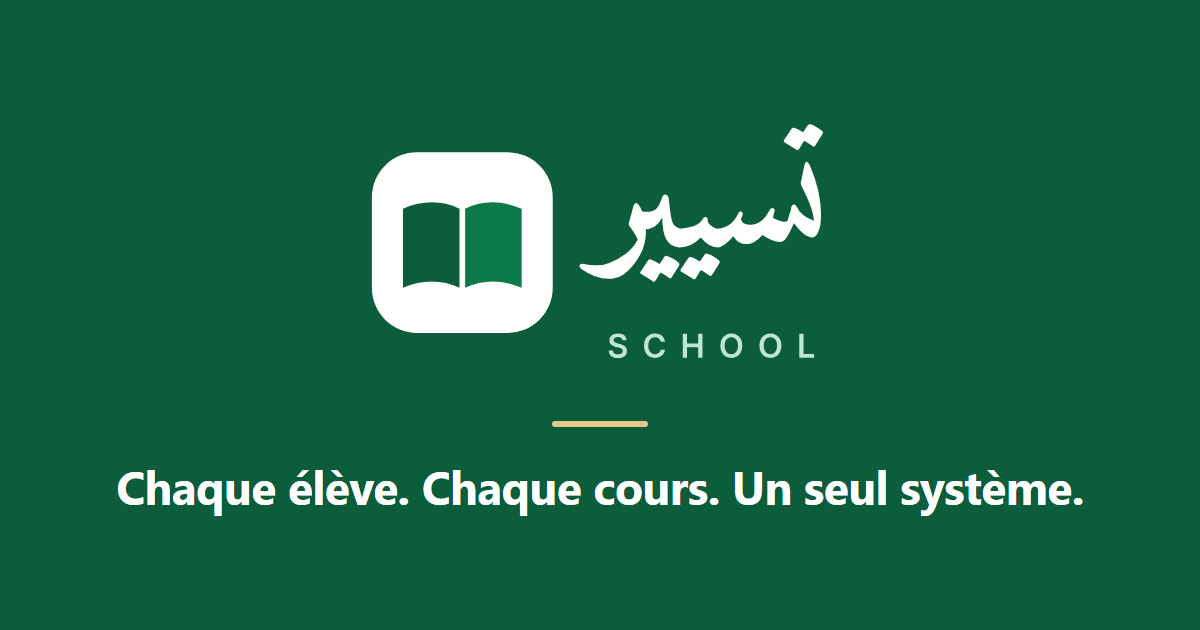
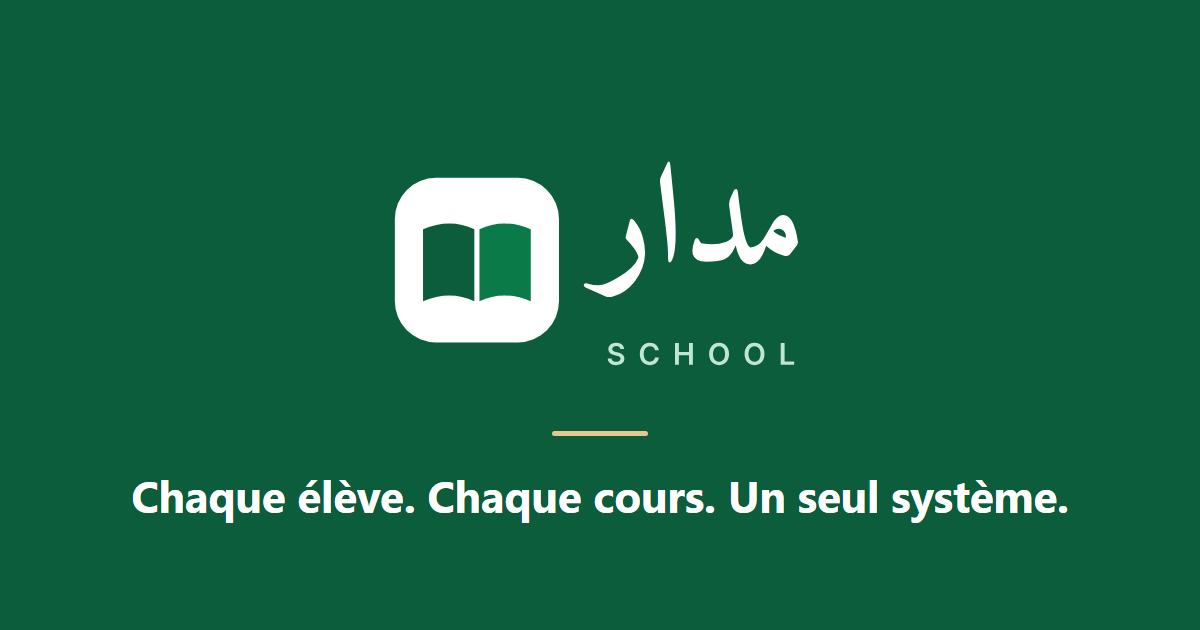
Rebrand: Tasyir → Madar School (interface only)
Every user-visible name now says Madar / Madar School / مدار: BRAND
constants (sidebar, titles, metadata, Open Graph), the three message files
(home page, pricing, FAQ, demo form, founding banner, WhatsApp messages,
privacy + terms with their placeholders and meaning unchanged, push and
notification texts, install card, suspended / trial pages), the PWA
manifest (name, short_name), the service worker (fallback push title;
offline cache bumped to v2 since the offline page text changed).
In Arabic, "تسيير" was also the common noun "management": those
sentences now say "إدارة"; no "تسيير" is left anywhere visible.

Logo: the new lockups madar-logo.svg / madar-logo-dark.svg replace the
old tasyir-logo* files (removed); the square book icon, favicon, PWA,
maskable and apple-touch icons are unchanged. New Open Graph image
(same style, new name).

Internal names stay on purpose: repo / package, database, cron jobs,
storage keys (tasyiir:rollcall / tasyiir:grades / tasyir:install-card),
@phone.tasyiir.invalid, the tasyir-icon* file names, the Vercel URL.
Demo emails (@demo.tasyir.ma) and the demo school's name are untouched
(seed + database): follow-ups in CLAUDE.md and docs/PLAN.md, with the
madarapp.ma domain, OMPIC, Instagram and the custom-SMTP note.

Also records Phase 11 step 4 as live on production (status).

Checks: lint, typecheck, build; actions-demo-requests 42 / 42,
pages-phone-app 11 / 11; headless Chrome home, login, privacy, terms,
[…]

diff --git a/src/lib/brand.ts b/src/lib/brand.ts
@@ -1,8 +1,8 @@
 /** Brand names: proper nouns, identical in every locale (docs/DESIGN.md). */
 export const BRAND = {
-  name: "Tasyir",
-  nameAr: "تسيير",
-  product: "Tasyir School",
+  name: "Madar",
+  nameAr: "مدار",
+  product: "Madar School",
 } as const;
 
 /** Public address of the site (link previews need absolute URLs). */
@@ -15,13 +15,16 @@ export const OG_IMAGE = {
   url: "/brand/og-image.png",
   width: 1200,
   height: 630,
-  alt: "Tasyir School — Chaque élève. Chaque cours. Un seul système.",
+  alt: "Madar School — Chaque élève. Chaque cours. Un seul système.",
 } as const;
 
-/** Logo files in public/brand (Amiri lettering is drawn as shapes inside the SVGs). */
+/**
+ * Logo files in public/brand (Amiri lettering is drawn as shapes inside the SVGs).
+ * The square book icon kept its old file names (tasyir-icon*): only the wordmark changed.
+ */
 export const BRAND_ASSETS = {
-  logo: "/brand/tasyir-logo.svg",
-  logoDark: "/brand/tasyir-logo-dark.svg",
+  logo: "/brand/madar-logo.svg",
+  logoDark: "/brand/madar-logo-dark.svg",
   icon: "/brand/tasyir-icon.svg",
 } as const;
 

diff --git a/public/sw.js b/public/sw.js
@@ -1,10 +1,11 @@
-// Tasyir service worker (Phase 10). Keeps NO school data: only the "no connection"
+// Madar service worker (Phase 10; internal names keep "tasyir"). Keeps NO school data: only the "no connection"
 // page of each language and the files it needs, so a parent who opens the app
 // without network sees a clear message instead of the browser's error.
 // Web push (Phase 10 step 4): the server sends the sentence already written in the
 // parent's language; a tap opens (or focuses) the page it is about.
 
-const CACHE = "tasyir-offline-v1";
+// v2: the offline page now says "Madar" (rebrand 2026-10-25). The prefix stays: old caches are found by it.
+const CACHE = "tasyir-offline-v2";
 const OFFLINE_PAGES = ["/ar/offline", "/fr/offline", "/en/offline"];
 const ASSET = /\/_next\/static\/[^"'\s)]+\.(?:css|woff2)/g;
 
@@ -66,7 +67,7 @@ self.addEventListener("push", (event) => {
   } catch {
     message = {};
   }
-  const title = message.title || "Tasyir";
+  const title = message.title || "Madar";
   event.waitUntil(
     self.registration.showNotification(title, {
       body: message.body || "",

diff --git a/src/components/features/landing/landing-ui.tsx b/src/components/features/landing/landing-ui.tsx
@@ -33,14 +33,14 @@ export const BUTTON = {
   link: cn("rounded-sm font-semibold text-lp-brand underline-offset-4 hover:underline focus-visible:outline-lp-brand", FOCUS),
 } as const;
 
-/** Full Tasyir logo; `onDark` = the white-lettered version for the green bands. */
+/** Full Madar logo; `onDark` = the white-lettered version for the green bands. */
 export function Logo({ className, onDark = false }: { className?: string; onDark?: boolean }) {
   return (
     // eslint-disable-next-line @next/next/no-img-element -- static SVG, nothing to optimize
     <img
       src={onDark ? BRAND_ASSETS.logoDark : BRAND_ASSETS.logo}
       alt={BRAND.product}
-      width={635}
+      width={630}
       height={365}
       className={cn("h-12 w-auto", className)}
     />

diff --git a/src/app/[locale]/(auth)/layout.tsx b/src/app/[locale]/(auth)/layout.tsx
@@ -13,7 +13,7 @@ export default function AuthLayout({ children }: LayoutProps<"/[locale]">) {
         {/* Logo files are fixed light art: the light one stays on a white tile in dark mode. */}
         <div className="rounded-2xl px-4 py-1 dark:bg-white">
           {/* eslint-disable-next-line @next/next/no-img-element -- static SVG */}
-          <img src={BRAND_ASSETS.logo} alt={BRAND.product} width={635} height={365} className="h-24 w-auto" />
+          <img src={BRAND_ASSETS.logo} alt={BRAND.product} width={630} height={365} className="h-24 w-auto" />
         </div>
         {children}
       </div>

diff --git a/src/components/features/app/install-app-card.tsx b/src/components/features/app/install-app-card.tsx
@@ -12,7 +12,7 @@ import { dismissInstall, installState, promptInstall, subscribeInstall, type Ins
 const serverState = (): InstallState => "none";
 
 /**
- * Parent home: "install Tasyir on your phone". Android / Chrome → the browser's own
+ * Parent home: "install Madar on your phone". Android / Chrome → the browser's own
  * install dialog; iPhone → the three Safari steps (Apple has no install button).
  * Nothing once installed, on a computer without the prompt, or for 30 days after "Plus tard".
  */

diff --git a/src/components/layout/school-brand.tsx b/src/components/layout/school-brand.tsx
@@ -6,7 +6,7 @@ import { getCurrentSchool, getCurrentUser } from "@/lib/auth/session";
 import { BRAND, BRAND_ASSETS } from "@/lib/brand";
 
 /**
- * School logo + name (white-label), or the Tasyir brand for the platform
+ * School logo + name (white-label), or the Madar brand for the platform
  * owner. Links to the signed-in user's home (portal, dashboard, platform).
  */
 export async function SchoolBrand() {

diff --git a/src/app/globals.css b/src/app/globals.css
@@ -84,7 +84,7 @@
   --card-foreground: #0e2018;
   --popover: #ffffff;
   --popover-foreground: #0e2018;
-  /* Tasyir palette: atlas = brand / headers, action = buttons / links,
+  /* Madar palette (same colours as the Tasyir brand): atlas = brand / headers, action = buttons / links,
      mint = soft fills, sand = decoration only (never text). */
   --brand: #0b5d3b;
   --brand-foreground: #ffffff;

diff --git a/src/lib/landing/whatsapp.ts b/src/lib/landing/whatsapp.ts
@@ -1,5 +1,5 @@
 /**
- * Tasyir's WhatsApp contact (wa.me link) for the public home page.
+ * Madar's WhatsApp contact (wa.me link) for the public home page.
  * NEXT_PUBLIC_WHATSAPP_NUMBER = international digits only, e.g. 2126XXXXXXXX.
  * Not set → no WhatsApp buttons are shown.
  */

diff --git a/CLAUDE.md b/CLAUDE.md
@@ -1,14 +1,16 @@
-# Tasyiir School — Claude Code rules
+# Madar School — Claude Code rules
 
-Tasyiir School (تسيير) is a **multi-tenant SaaS school management platform** for Moroccan private schools:
+Madar School (مدار), formerly Tasyir, is a **multi-tenant SaaS school management platform** for Moroccan private schools:
 absences, emploi du temps, communication, grades, fees, transport, Massar exports, automatic alerts.
+
+**Product renamed to Madar School (interface only, 2026-10-25).** Every user-visible name says Madar / Madar School / مدار (`BRAND` in `src/lib/brand.ts`, messages, manifest, service worker texts, logo `public/brand/madar-logo.svg` + `madar-logo-dark.svg`). **Internal names stay `tasyiir` / `tasyir` on purpose:** repo and package `tasyiir-school`, Supabase project names, pg_cron jobs `tasyiir-*`, parent sign-in domain `@phone.tasyiir.invalid`, localStorage keys (`tasyiir:rollcall:v1:`, `tasyiir:grades:v1:`, `tasyir:install-card:…`), service-worker cache prefix `tasyir-offline-`, push test tag `tasyir-test`, the square icon files `tasyir-icon*` (the book icon did not change), test file names, the Vercel URL `tasyiir-school.vercel.app`. In Arabic, "تسيير" was also used as the common noun "management": those sentences now say "إدارة". **Follow-ups (Madar):** demo emails `@demo.tasyir.ma` → the new domain through the seed `--refresh` (user present) and the demo school's name "École Démo Tasyir" (lives in `scripts/prod/seed-demo-school.mjs` + the database); own `madarapp.ma` + Vercel domain setup (not confirmed yet: no domain anywhere in the app); OMPIC filing for "Madar"; Instagram profile; custom SMTP only after owning the new domain (see the demo note below).
 
 - Full plan & phases: `docs/PLAN.md`
 - Brand, UI & UX rules: `docs/DESIGN.md`
 - **Always read both before starting a phase.** Work on ONE phase at a time. Don't build ahead.
 
 ## Current phase
-> **Phase 11 — Grades + report cards, in progress (started 2026-10-25).** Step 1 (grading setup in the DB) done: DEV + production (pushed by the user 2026-10-25), main `c294f6c` deployed. Steps 2 (setup screens) and 3 (grades table) live: migrations `phase11_copy_grading` + `phase11_grades` pushed to production by the user 2026-10-25, main `1839c0e` deployed. Coefficient grid rework live (migration `phase11_save_coefficients` pushed by the user 2026-10-25, main `481fca8` deployed). Step 4 (entry grid) done on DEV (migration `phase11_save_grades`, production push pending, commit not pushed). Next: step 5 (averages + rank). Plan, defaults and open questions in `docs/PLAN.md` § 7. Update this line when a phase is finished. Phases 0–10 + Launch prep done — live at https://tasyiir-school.vercel.app
+> **Phase 11 — Grades + report cards, in progress (started 2026-10-25).** Step 1 (grading setup in the DB) done: DEV + production (pushed by the user 2026-10-25), main `c294f6c` deployed. Steps 2 (setup screens) and 3 (grades table) live: migrations `phase11_copy_grading` + `phase11_grades` pushed to production by the user 2026-10-25, main `1839c0e` deployed. Coefficient grid rework live (migration `phase11_save_coefficients` pushed by the user 2026-10-25, main `481fca8` deployed). Step 4 (entry grid) live (migration `phase11_save_grades` pushed by the user 2026-10-25, main `0ca358a` deployed). Next: step 5 (averages + rank). Plan, defaults and open questions in `docs/PLAN.md` § 7. Update this line when a phase is finished. Phases 0–10 + Launch prep done — live at https://tasyiir-school.vercel.app
 > **Where we are (2026-10-25):** Launch prep step 6 (closing pass) done on main `2dac374`: lint + build clean, full `test:actions` 2337 / 2337 passed, 14 skipped (11 Sunday teacher cases, daily-alerts month edge, announcements no-year branch, demo `updateUser({ email })` when Auth answers `email_address_invalid` first), 0 failures; public pages (home, privacy, terms, offline, login × ar / fr / en × 390 / 1366) in headless Chrome: 200, no overflow, no console errors, RTL in Arabic. The user checked production by hand: the 3 demo logins + platform owner login work, a demo password change is refused. Live trial test (request → "Créer l'essai") deliberately NOT run on production. Phase 10 checked on Android + iPhone by the user 2026-10-24.
 > **Before the first real school (open):** Supabase Pro (daily backups) + add "sauvegardes quotidiennes" back to the home page · Vercel Pro (Hobby is non-commercial; before the first payment) · CNDP declaration under law 09-08 (hosting in Ireland; add the receipt number to /privacy) · lawyer review of /privacy + /terms · OMPIC registration (+ RC / ICE / address on the legal pages if wanted) · Vercel Preview env = DEV keys (never production) · own `tasyir.ma` before custom SMTP. Note: the teacher's /dashboard is still the empty placeholder card.
 
@@ -17,7 +19,7 @@ Same workflow (show every migration, wait for OK, commit each step; **no git pus
 - **Step 1 — grading setup in the DB (migration `phase11_grading_setup`, DEV `20261025015158`, applied through the MCP 2026-10-25; production pushed by the user the same day):** permissions `grades.view` (director, surveillant) + `grades.manage` (director), module `grades`. Everything per academic year. `grading_periods` (number 1–4, dates inside the year, no overlap = exclusion `grading_periods_no_overlap` 23P01, `weight` for the annual average, `locked_at` / `locked_by` set by the trigger; locked = number / dates / weight frozen (`grading_period_locked`), not deletable through the API (policy); unlock = `locked_at` null). Seeded by a trigger on `academic_years` insert (S1 start → 31 Jan, S2 1 Feb → end; midpoint when no 1 Feb) and for every existing year; moving a year's start / end moves the first period's start / last period's end (when on the old boundary), else the year update fails → `setup.errors.yearCutsSemesters` (`year-actions.ts`). `grade_level_settings` (pk year + level: scale 10 | 20, `controls_count` 1–10, `activities`); NO ROW = defaults, read them through `public.grade_level_rules(year)` (INVOKER: primaire /10 else /20, 4, false, `customised`). `subject_coefficients` (year + level + optional track + subject, `unique nulls not distinct`; coefficient 0 < c ≤ 20, optional `controls_count` override, `position` 0–100 = report card order); a filière's row wins over the level's common row, subject by subject. Read: every active account of the school while grades is on; write: grades.manage (column grants: school / year / level never change). `reset_demo_school` + the 3 tables (the demo year re-seeds its semesters: `grading_periods` is in `FILLED` of `phase-launch-demo.mjs`, OpenAPI count ≥ 35). Tests: `phase11-grading-setup.mjs` (81, in `run.mjs`).
 - **Step 2 — setup screens (done 2026-10-25, live).** Decisions (user): tab "Notes" in `/setup` (`/setup/grading`, hidden when the grades module is off; `grades.manage` edits, `grades.view` = surveillant reads only), sections Semestres / Règles par niveau / Coefficients per year, + "Copier vers d'autres niveaux" and "Copier depuis l'année précédente" (preview then confirm). Migration `phase11_copy_grading` (DEV `20261025023402`, applied through the MCP 2026-10-25; production pushed by the user 2026-10-25): `public.copy_level_coefficients(year, from_level, from_track, to_levels[], apply)` (one level's common rows or one filière → other levels' COMMON rows, same year) and `public.copy_grading_from_year(from_year, to_year, apply)` (earlier year's level rules + every coefficient row; semesters not copied). Both INVOKER, `has_module('grades')` + `grades.manage` else 42501 `copy_grading_forbidden`; year not in the school → 23503 `copy_grading_not_found`; source not earlier → 23514 `copy_grading_source_not_earlier`; never overwrite (status `exists` / `copy`), apply false = report only, apply true = same statement. Tests: `phase11-copy-grading.mjs` (32, in `run.mjs`). Screens: `/setup/grading?year=&section=periods|rules|coefficients&level=&track=` (page `src/app/[locale]/(school)/setup/grading/page.tsx`, `requireSchoolPermission("grades.view")`; module off → "not in your plan"; no year / levels / subjects → empty states with a link for structure.manage). Tabs: `SETUP_TABS` moved to `src/lib/structure/setup-tabs.ts` (a constant in the "use client" nav reached the server as a client reference and broke every /setup page in the browser while HTTP tests still saw 200), `SetupTabs` = server wrapper choosing the visible tabs (structure tabs: structure.manage; Notes: grades.view + module), `SetupTabsNav` hides itself with < 2 tabs. Nav: `NavItem.hiddenWith` (a "Notes" item → /setup/grading for grades.view WITHOUT structure.manage = surveillant). Components `src/components/features/grading/`: `PeriodsList` (cards `data-period` / `data-locked`, `PeriodDialog` dates + weight, lock / unlock confirm), `LevelRulesList` (rows `data-level-rules`, scale /10 /20, contrôles, activités, Personnalisé + Rétablir = delete the row), `CoefficientScopePicker` + `CoefficientsList` / `CoefficientRow` (`data-coefficient` / `data-graded`; inputs `id="coef-<subject>"` / `ctrl-` only with grades.manage; graded rows in report card order with ↑ ↓, then "Autres matières" (Ajouter, or in a filière "Personnaliser" over the inherited common values); filière row removed = back to the common core), `CopyLevelsDialog`, `CopyYearDialog` (pick → preview `data-copy-preview` → copy). Actions (`src/lib/grading/period-actions.ts`, `rules-actions.ts`, `coefficient-actions.ts`, `copy-actions.ts`; session + RLS; update-then-insert since key columns are not updatable; audit `grading.period.update|lock|unlock`, `grading.rules.save|reset`, `grading.coefficient.save|delete|reorder`, `grading.copy.levels|year`), zod `src/lib/validations/grading.ts` ("1,5" accepted, 2 decimals max), reads `src/lib/grading/setup.ts`, texts `grading.*` + `nav.grading` + `setup.tabs.grading` (2406 keys in each language). Tests: `actions-grading-setup.mjs` (75, in `run.mjs`). **Coefficients UX rework (user, 2026-10-25):** the per-level list, the level / filière picker and "Copier vers d'autres niveaux" are gone (the `copy_level_coefficients` function stays in the DB, unused). Now a grid per cycle (`?cycle=`, pill links of the cycles that have levels): rows = subjects, columns = the cycle's levels + one column per filière only for a level that has some (`CoefficientGrid`, `grid-model.ts` pure helpers, `GridCell` `data-cell="<level>|<track>|<subject>"` / `data-changed`, `GridSubjectCell` sticky first column `data-subject`: ↑ ↓ report card order for the whole cycle, "Même valeur pour tous les niveaux" popover = every common column of the row; filières keep inheriting). Views Coefficients / Contrôles (contrôles cell disabled where the subject is not graded; placeholder = inherited value or the level's number, greyed). Edits stay in the page; sticky save bar "N modifications non enregistrées" (+ invalid count, red cells), Annuler / Enregistrer; leaving with unsaved cells → browser warning. Save = `saveCoefficientGrid(year, cells)` (`coefficient-actions.ts`, the only coefficient action now; zod `gridCellSchema`, `cell` names the first invalid cell, audit `grading.coefficients.save`) → migration `phase11_save_coefficients` (DEV `20261025040150`, applied through the MCP 2026-10-25; production pushed by the user 2026-10-25): `public.save_subject_coefficients(year, cells jsonb)` INVOKER, `has_module('grades')` + `grades.manage` else 42501 `coefficients_forbidden`, year not in the school → `coefficients_year_not_found`, > 500 cells → `coefficients_too_many`; per cell: coefficient null = delete the row, else insert … on conflict (`subject_coefficients_key`) do update coefficient / controls_count / position (only granted columns); one function = one transaction, any CHECK / FK error rolls everything back. Shell: `SidebarInset className="min-w-0"` (`app-shell.tsx`) so a wide table scrolls inside its card instead of widening the page (found with the lycée grid: 185 px page overflow at 1366). Tests: `phase11-save-coefficients.mjs` (23, DB), `actions-grading-setup.mjs` now 62 (grid action + page instead of the old coefficient / copy-to-levels actions). Headless Chrome (École Test B director + surveillant, year 2090-2091 removed after; fr + ar × 1366 + 390 × primaire / collège / lycée; edits: a cell "2,5", same value in every college level, contrôles view, disabled contrôles cell, invalid 25 blocks the save, ↑ reorder, one save checked in the DB, reload shows the values): 45 / 45 ok, no page overflow, no raw keys, no console errors, RTL in Arabic. Headless Chrome (École Test B director + surveillant, throwaway year 2090-2091 removed after, fr + ar × 1366 + 390, every section + filière, lock / copy-year / copy-levels dialogs, add a subject through the UI): no overflow, no raw keys, no console errors, RTL in Arabic.
 - **Step 3 — grades in the DB (migration `phase11_grades`, DEV `20261025034208`, applied through the MCP 2026-10-25; production pushed by the user 2026-10-25):** `grades` = one mark: period + student + subject + kind `control` (number 1..N) | `activities` (number 1) + `score` numeric(4,2) or `absent` (no score). Caller inserts school / period / student / subject / kind / number / score / absent (column grants); the BEFORE trigger (`private.grades_before_write`, DEFINER) sets the year from the period + entered_by / at (insert) or updated_by / at, and refuses: `grading_period_locked`, `grade_student_not_enrolled` (no enrolment that year), `grade_subject_not_graded` (no coefficient row for the student's level: filière row wins, else common), `grade_no_activities`, `grade_number_too_high` (subject override, else the level's count), `grade_score_above_scale`, `grade_identity_locked` (only score / absent change). Rules are checked on write only (lowering a count later keeps old grades; they can be deleted, not changed). **Locked semester = insert / update / delete refused for everyone, secret key included**; only a delete cascading from another (student, year: `pg_trigger_depth() > 1`) goes through. NO ACTION FKs: a semester or a subject with grades cannot be deleted (23503 `grades_period_fkey` / `grades_subject_fkey`). No class stored: the class / level come from the enrolment of the period's year. Write: `grades.manage` any year; a teacher only the CURRENT year and a subject they teach to the student's class (`private.teaches_student_subject(student, subject, year)`, lessons). Read (user 2026-10-25): grades.view / grades.manage (director, surveillant) all, a teacher only those pairs; **parents and students NO read access to `grades` ever** (they will read published snapshots, step 7). Module grades on everywhere. `reset_demo_school` unlocks the demo semesters then deletes grades (`phase-launch-demo.mjs` table count ≥ 36). Tests: `phase11-grades.mjs` (72, in `run.mjs`; incl. the student's parent reads none of the child's grades).
-- **Step 4 — grade entry (migration `phase11_save_grades`, DEV `20261025043831`, applied through the MCP 2026-10-25; **production push by the user pending — no git push before**):** `public.save_grades(period, subject, cells jsonb)` INVOKER: per cell `{student_id, kind, number, score, absent, clear}` → clear = delete, else insert … on conflict (`grades_key`) do update score / absent; RLS + the grades trigger decide everything, one refusal rolls the whole sheet back; ≤ 2000 cells; `grades_forbidden` (no school / module off), `grades_period_not_found` (not the caller's school), `grades_too_many`. Decisions (user 2026-10-25): surveillant read-only on /grades; grades.manage gets a year picker (current year by default), teachers stay on the current year; menu "Saisie des notes" (`nav.gradeEntry`, `/grades`: role teacher OR grades.view, module grades) and the surveillant's setup entry renamed "Réglages des notes" (`nav.grading`); phones one contrôle at a time, the full grid from md. Page `src/app/[locale]/(school)/grades/page.tsx` → `GradesContent` (`src/components/features/grades/`): `getGradeAccess()` (`src/lib/grades/access.ts`: manage / view / teacher, module off → "not in your plan", else home); teacher = `TeacherPairPicker` over `listTeacherPairs()` (their lessons of the current year; a class / subject not theirs in the URL falls back to their first pair); staff = `StaffSheetPickers` (year, class, graded subjects `listClassSubjects()`); `PeriodSwitch` (semester containing the school's today by default, 🔒 on locked ones); `getGradeSheet()` (`src/lib/grades/sheet.ts`: scale + contrôle count with the same rules as the trigger, activités column, read-only "(ancien)" columns for marks beyond a lowered count, students "NOM Prénom"). `GradeSheet` (client): cells are typed text (`src/lib/grades/marks.ts`: "" / "abs" (also "a", "غ") / 0..scale with 2 decimals, "," or "."), `PhoneSheet` (chips `data-chip` with filled counts, big rows, `MarkInput` `inputMode=decimal` `enterKeyHint=next`, Enter / Suivant = next student, Abs toggle `aria-pressed`) and `GridSheet` (sticky names, Enter = same contrôle next student) both rendered (CSS md:hidden / hidden md:block) on one state; inputs `data-mark="<student>|<kind>|<number>"` `data-mark-view`, read-only cells `data-mark-text`; invalid = red + save blocked; sticky bar `data-grade-savebar` (pending count, invalid count, "Réessayer" after a failure); leaving with unsaved marks → browser warning. Drafts `src/lib/grades/drafts.ts` (`tasyiir:grades:v1:<user>:<period>:<class>:<subject>`, written on every change, deleted once saved, other accounts' copies purged on open, ALL cleared on logout with the roll-call ones: `logout-button.tsx`, `user-menu.tsx`); a copy found on open comes back with `data-draft-restored` (+ Abandonner); on a locked semester it is only flagged (`data-draft-locked`) and can be discarded; read-only users ignore it. The restore after hydration needs an `eslint-disable-next-line react-hooks/set-state-in-effect` (the roll call does the same thing; the compiler skips that file). Action `saveGrades(class, subject, period, cells)` (`src/lib/grades/actions.ts`: area school + access manage / teacher, zod `src/lib/validations/grades.ts`, errors `grades.errors`, audit `grades.save`). Texts `grades.*`. Tests: `phase11-save-grades.mjs` (32, DB), `actions-grades.mjs` (35, page + action), shared fixture `grades-fixture.mjs` (current year, past year, college /20 3 contrôles + activités, primaire /10, classes A (tchA) / B (second teacher) / primaire, parent of A1). Headless Chrome (École Test B teacher by magic link, director, surveillant; fr + ar × 390 + 1366; 35 / 35): typing, Enter = next student, 25 / 20 red + save blocked, Abs toggle, 4 marks saved offline → nothing saved + Réessayer, leave → browser warning, reload → draft back, one save stored the 4 marks in the DB, draft deleted, grid Enter down a contrôle + "a" = absent, Arabic phone save, locked semester read-only + the copy flagged and discarded; test data removed after. Browser test notes: the page's "leave with unsaved marks?" dialog blocks headless Chrome — accept it (`Page.javascriptDialogOpening` → `Page.handleJavaScriptDialog`); a test teacher of École Test B signs in by magic link.
+- **Step 4 — grade entry (migration `phase11_save_grades`, DEV `20261025043831`, applied through the MCP 2026-10-25; production pushed by the user 2026-10-25):** `public.save_grades(period, subject, cells jsonb)` INVOKER: per cell `{student_id, kind, number, score, absent, clear}` → clear = delete, else insert … on conflict (`grades_key`) do update score / absent; RLS + the grades trigger decide everything, one refusal rolls the whole sheet back; ≤ 2000 cells; `grades_forbidden` (no school / module off), `grades_period_not_found` (not the caller's school), `grades_too_many`. Decisions (user 2026-10-25): surveillant read-only on /grades; grades.manage gets a year picker (current year by default), teachers stay on the current year; menu "Saisie des notes" (`nav.gradeEntry`, `/grades`: role teacher OR grades.view, module grades) and the surveillant's setup entry renamed "Réglages des notes" (`nav.grading`); phones one contrôle at a time, the full grid from md. Page `src/app/[locale]/(school)/grades/page.tsx` → `GradesContent` (`src/components/features/grades/`): `getGradeAccess()` (`src/lib/grades/access.ts`: manage / view / teacher, module off → "not in your plan", else home); teacher = `TeacherPairPicker` over `listTeacherPairs()` (their lessons of the current year; a class / subject not theirs in the URL falls back to their first pair); staff = `StaffSheetPickers` (year, class, graded subjects `listClassSubjects()`); `PeriodSwitch` (semester containing the school's today by default, 🔒 on locked ones); `getGradeSheet()` (`src/lib/grades/sheet.ts`: scale + contrôle count with the same rules as the trigger, activités column, read-only "(ancien)" columns for marks beyond a lowered count, students "NOM Prénom"). `GradeSheet` (client): cells are typed text (`src/lib/grades/marks.ts`: "" / "abs" (also "a", "غ") / 0..scale with 2 decimals, "," or "."), `PhoneSheet` (chips `data-chip` with filled counts, big rows, `MarkInput` `inputMode=decimal` `enterKeyHint=next`, Enter / Suivant = next student, Abs toggle `aria-pressed`) and `GridSheet` (sticky names, Enter = same contrôle next student) both rendered (CSS md:hidden / hidden md:block) on one state; inputs `data-mark="<student>|<kind>|<number>"` `data-mark-view`, read-only cells `data-mark-text`; invalid = red + save blocked; sticky bar `data-grade-savebar` (pending count, invalid count, "Réessayer" after a failure); leaving with unsaved marks → browser warning. Drafts `src/lib/grades/drafts.ts` (`tasyiir:grades:v1:<user>:<period>:<class>:<subject>`, written on every change, deleted once saved, other accounts' copies purged on open, ALL cleared on logout with the roll-call ones: `logout-button.tsx`, `user-menu.tsx`); a copy found on open comes back with `data-draft-restored` (+ Abandonner); on a locked semester it is only flagged (`data-draft-locked`) and can be discarded; read-only users ignore it. The restore after hydration needs an `eslint-disable-next-line react-hooks/set-state-in-effect` (the roll call does the same thing; the compiler skips that file). Action `saveGrades(class, subject, period, cells)` (`src/lib/grades/actions.ts`: area school + access manage / teacher, zod `src/lib/validations/grades.ts`, errors `grades.errors`, audit `grades.save`). Texts `grades.*`. Tests: `phase11-save-grades.mjs` (32, DB), `actions-grades.mjs` (35, page + action), shared fixture `grades-fixture.mjs` (current year, past year, college /20 3 contrôles + activités, primaire /10, classes A (tchA) / B (second teacher) / primaire, parent of A1). Headless Chrome (École Test B teacher by magic link, director, surveillant; fr + ar × 390 + 1366; 35 / 35): typing, Enter = next student, 25 / 20 red + save blocked, Abs toggle, 4 marks saved offline → nothing saved + Réessayer, leave → browser warning, reload → draft back, one save stored the 4 marks in the DB, draft deleted, grid Enter down a contrôle + "a" = absent, Arabic phone save, locked semester read-only + the copy flagged and discarded; test data removed after. Browser test notes: the page's "leave with unsaved marks?" dialog blocks headless Chrome — accept it (`Page.javascriptDialogOpening` → `Page.handleJavaScriptDialog`); a test teacher of École Test B signs in by magic link.
 
 ## Phase 10 — Parent app on the phone — done 2026-10-25 (started 2026-10-23; notes kept)
 Same workflow (show every migration, wait for OK, commit + push each step, test in Chrome AR + FR). Decisions (user, 2026-10-22 / 2026-10-23): free Web Push only (no WhatsApp, no paid SMS); pushes for **absences (+ corrections), remarks and announcements**, each type switchable by the parent; library **`web-push`** (server only).
@@ -48,13 +50,13 @@ Steps: 1 production Supabase project (separate from DEV) + Vercel Production poi
 - **Step 2c — demo school (in progress 2026-10-23)**: migration `launch_demo_school` (DEV `20261023031917`, production pushed by the user 2026-10-23): `schools.is_demo` (only the secret key sets / clears it; no unique index, so the test suites make their own demo school `rls-test-d-<run>` next to the real one, found by slug), locks while the flag is ON (profile / role locks are SECURITY INVOKER and let `current_user = postgres` through: migrations, postgres-owned DEFINER functions, FK cascades; anon / authenticated / service_role refused; auth.mfa_factors: no second factor; auth.users: no email / phone / password / ban / token change, no delete; profiles: no insert / delete, only `locale` changes; demo roles read-only; no Storage upload into a demo school's folder; seed / password rotation / teardown = flag OFF first), nightly reset `tasyir-demo-reset` (hourly, acts at 03:00 Africa/Casablanca) → every demo school: `private.reset_demo_school(id)` → `private.demo_fill(id)` (content = next migration); no subscription reminder for a demo school (`send_subscription_reminders` skips `is_demo`); `public.run_demo_reset(school)` = secret key only. App: `CurrentUser.isDemo`; createStaff, staff member actions, parent account actions and changePassword return `demoLocked` (`staff|parents|auth.errors`). The platform dashboard counts and MRR leave demo schools out (`getPlatformStats`; `StatCard stat` → `data-stat` / `data-value`). Tests: `phase-launch-demo.mjs` (publishable key + demo session straight to Supabase: updateUser password / email / phone refused, recover + magic link record no token, `generateLink` refused for demo (control: works for B), secret-key ban / reset / delete / profile insert refused, roles read-only, uploads refused, reset), `actions-demo.mjs` (account actions → `demoLocked`, dashboard counts + MRR); demo fixture `demo-fixture.mjs` (`ensureDemoSchool`); `removeFixtures` clears the flag first.
   - **Demo content** (migration `launch_demo_content`, DEV `20261023042043`, production pushed by the user 2026-10-23): `private.demo_fill(school)` rebuilds the school every night from the school's today: year Sept → June holding today (July / August: the year just ended), template week (Mon–Fri full days, Saturday morning), levels 1AC / 2AC / 3AC, classes 1AC-A, 1AC-B, 2AC-A, 3AC-A × 24 students (Latin + Arabic names, Massar `D0…`), one father each (fictional phones `+212 600 000 0xx`, no account), 6 subjects in French, timetable placed slot by slot (29 lessons per class, nobody booked twice, PC / SVT in the Laboratoire), roll calls of the last 4 weeks (never today: the visitor takes today's as prof@), ~3 % absent by half-day and ~2 % late from stable keys (two resets the same day = same rows), the demo family Benali (parent account = guardian Karim; Yassine 1AC-A, Salma 3AC-A: absences, lates, one justification approved + one pending, remarks), 5 announcements, 6 remarks, alert rules back to defaults, contact card from `schools.settings->'demo_contact'` (`{phone, whatsapp}`, written by the seed from `NEXT_PUBLIC_WHATSAPP_NUMBER`; never a number in git). Teachers are found by the END of their e-mail's local part: `…prof` (Maths, the demo teacher), `…arabe` (Arabe + Éducation islamique), `…francais`, `…sciences` (PC + SVT), `…histoire` (HG), `…anglais`: the seed creates the 5 extra teacher accounts (random password nobody knows); a missing one = that subject's lessons left out; director / parent / …prof missing = the fill raises `demo_accounts_missing`. Authors come from `auth.uid()` in the triggers, so the fill impersonates with `private.demo_as(user)` (sets `request.jwt.claims`) and ENDS with `demo_as(null)`; `public.run_demo_reset(school)` returns `auth.uid()` after the reset (tests require null). Backdating (roll-call times, announcements, justifications, remarks at school hours) switches off three BEFORE UPDATE triggers at the very end (`ALTER TABLE … DISABLE TRIGGER`, SHARE ROW EXCLUSIVE lock until the reset commits). The announcement publish trigger is fired with `set constraints public.announcements_publish immediate` then set back to deferred (several demo schools are filled in one transaction). Absence notices of the last 7 days go out ~10 min after the reset (existing cron). Test fixture = 8 accounts (`demoArabe` … `demoAnglais`) + `demo_contact`; `phase-launch-demo.mjs` checks the content and the generic rule: `FILLED` tables have rows, other non-kept tables are empty, a second reset the same day gives the same counts in every table (add a table that demo_fill writes to `FILLED`).
   - **Seed script** `scripts/prod/seed-demo-school.mjs` (the user runs it in their own terminal): `node --env-file=.env.local scripts/prod/seed-demo-school.mjs --dev [--dry-run] [--refresh | --remove]`, production the same with `--env-file=.env.prod.local … --production` (typed `yes`; `--remove` asks for the slug). Exactly one target, checked before any network call (`--dev` = DEV ref + `sb_secret_` and no `PROD_*` loaded; `--production` = `PROD_SUPABASE_URL` production ref). Default = create: school "École Démo Tasyir" (slug `ecole-demo-tasyir`, Casablanca, flag OFF) + plan `pro` active (no end date) + 8 accounts → `settings.demo_contact` → flag ON → `run_demo_reset` (must return null) → audit `demo_school.create` (school_id NULL: the reset empties the demo school's audit log); any failure removes everything again. Accounts: `directeur@` Nadia El Amrani (director, fr), `prof@` Youssef Tazi (teacher / Maths, fr), `parent@` Karim Benali (parent, ar) with `DEMO_PASSWORD`; `enseignant.arabe|francais|sciences|histoire|anglais@demo.tasyir.ma` (fr) with random passwords nobody knows. `--refresh`: flag OFF → shared password, names / languages / roles restored, missing accounts created, contact card → flag ON in `finally` → refill (password rotation = change `DEMO_PASSWORD`, run `--refresh`). `--remove`: flag OFF → school deleted → only accounts whose profile was in it. Contact card = `NEXT_PUBLIC_WHATSAPP_NUMBER` (needed in `.env.prod.local` too) for both Call and WhatsApp; not a Moroccan mobile → card empty + warning. `DEMO_PASSWORD` is read from the env file only and never printed (errors show codes only). Test: `rules-seed-demo.mjs` (28, in `run.mjs`): the script started with fake settings refuses (targets, keys, `PROD_*` with `--dev`, weak / missing password, no terminal) before any network call and never shows the password.
-  - **Before configuring custom SMTP (Resend or any other) on Supabase Auth: own `tasyir.ma` (so `demo.tasyir.ma` has no MX record and nothing sent to the demo accounts can be delivered) or change the demo email domain to one we control without mail.** The DB lock refuses the recovery / magic-link / email-change tokens, but Supabase Auth may send the email before that write fails; today the default Supabase mailer only sends to the team's own addresses.
+  - **Before configuring custom SMTP (Resend or any other) on Supabase Auth: own the product's domain (since the Madar rename: `madarapp.ma`, not confirmed yet; the demo accounts still use `@demo.tasyir.ma`, so move them to a sub-domain of the owned domain with the seed `--refresh`) (so the demo sub-domain has no MX record and nothing sent to the demo accounts can be delivered) or change the demo email domain to one we control without mail.** The DB lock refuses the recovery / magic-link / email-change tokens, but Supabase Auth may send the email before that write fails; today the default Supabase mailer only sends to the team's own addresses.
 - Step 5 (pricing on the home page, done 2026-10-21, no migration): plans named by school size (display only, DB plan keys stay basic / pro / premium; alerts module = medium + large): "Petite école" (≤ 150 students, 290 DH / month or 2 900 / year, 2 admin accounts), "École moyenne" (recommended; 151–400, 590 / 5 900, 5 accounts), "Grande école" (401–800, 990 / 9 900, unlimited; "> 800 on quote" line under its student range, so the three cards' trial buttons line up); a year = 12 months for the price of 10. Card (`plan-card.tsx`) = who it is for, monthly price + yearly line (price + saving), the 3 differences (admin accounts, daily alerts, onboarding + support), CTAs "Essai gratuit de 14 jours" + "Demander une démo" → `#demo` (no self-serve trial yet); no monthly / annual switch (user). Under the cards `compare-table.tsx`: "Ce qui change" then "Dans toutes les formules" (`COMPARE_DIFFERENCES` / `COMPARE_ALL_PLANS` in `content.ts`: working features only). Founding banner (`founding-banner.tsx`: 490 DH / month École moyenne, 2 years, first 5 schools → WhatsApp with a message in the page language, else `#demo`; the main call to action: the whole banner is the link and always shows a button-styled "En parler sur WhatsApp" (`BUTTON.whatsapp`, full width on phones, user 2026-10-22); "490 DH" keeps a non-breaking space). Unfinished modules (grades, Massar export, fees, homework, transport, SMS / WhatsApp) live ONLY in the "Bientôt" section under the plans (`COMING_SOON`, `coming-soon.tsx`); move one out only when it works end to end with a passing test. Features section (`features.tsx`) = 4 DRAWN phone screens (`phone-frame.tsx`; `showcase-staff.tsx` roll call + totals, `showcase-parent.tsx` parent notifications + justify dialog): copies of the real screens using the app's own message keys and status colours (`--lp-app-success|danger|warning`), fictional names from `landing.hero.students`, demo day in `showcase-data.ts`; keep them in step when those screens change. "Dans le détail" keeps only the timetable. Prices via `formatPriceDh()` (`2 900 DH` with fr-FR grouping: fr-MA writes "2.900"; Western digits in every language; groups and the space before DH = U+00A0, never fr-FR's narrow U+202F, which vanishes after a "1": "1180", user 2026-10-22). Demo form student ranges unchanged (user). Tests: pricing + showcase checks in `actions-demo-requests.mjs`.
 - **Vercel moves from Hobby to Pro before the first paying school** (Hobby is non-commercial only).
 - Step 1 decisions (user, 2026-10-20): production = NEW Supabase organization "Tasyir" (project ref `blycnuuomfqgvfczkbxc`, region West EU / Ireland `eu-west-1`, created 2026-10-21 with Supabase defaults like DEV: "automatically expose new tables" ON, "automatic RLS" OFF), **FREE plan for now — upgrade to Pro BEFORE the first school enters real data** (free = no daily backups, pauses when idle); DEV stays in its own free organization (never billed). Pro has (once upgraded) **daily backups only, no point-in-time recovery**: the home page may say only "sauvegardes quotidiennes" (add it back at step 5/6, once production is live). Vercel function region `dub1` (next to eu-west-1). Production Auth: "Allow new users to sign up" OFF (every account is created with the server key). **Step 1 check — production Auth "IP address forwarding" ON** (Authentication → Rate Limits → "IP Address Forwarding"; must be enabled by hand on new projects; or Management API `PATCH /v1/projects/<ref>/config/auth` with `{"security_sb_forwarded_for_enabled": true}`), confirmed with the GET of the same endpoint (the user runs it with their own access token, never pasted here; only the true / false comes back). Why: `passwordSignIn` sends the visitor's IP in `Sb-Forwarded-For` with the secret key; while forwarding is off Supabase ignores it and counts every school's sign-ins against Vercel's server IPs (~150 / 5 min), so one busy morning locks everyone out of signing in. **Done: ON and saved in both projects, production and DEV (user, 2026-10-22, Authentication → Rate Limits).** It is not readable through the MCP: check it again on the dashboard page (or the GET) after any project change. The migration push never runs `seed.sql` or any fixture. The user types the platform owner's email themself when running the script.
 
-## Brand — Tasyir logo & palette (2026-10-20, outside the phases)
-Files in `public/brand` (source pack in `brand/`); `BRAND_ASSETS`, `OG_IMAGE`, `SITE_URL` in `src/lib/brand.ts`. Tokens: `--brand` atlas #0B5D3B (headers, landing band), `--primary` action #0B7A49 (buttons, links), `--mint` #CDEBDB, ink #0E2018, background #F4FBF7, `--sand` #E6C88F = decoration only, never text. Light logo on light backgrounds, `tasyir-logo-dark.svg` on green (hero). Amiri only inside the logo files. OG image 1200×630 (French tagline) = `public/brand/og-image.png`; manifest `public/manifest.webmanifest` (excluded from the proxy matcher).
+## Brand — Madar logo & palette (2026-10-20, renamed from Tasyir 2026-10-25, outside the phases)
+Files in `public/brand` (source packs in `brand/`, Madar lockups in `brand/madar/`); `BRAND_ASSETS`, `OG_IMAGE`, `SITE_URL` in `src/lib/brand.ts`. Tokens: `--brand` atlas #0B5D3B (headers, landing band), `--primary` action #0B7A49 (buttons, links), `--mint` #CDEBDB, ink #0E2018, background #F4FBF7, `--sand` #E6C88F = decoration only, never text. Light logo `madar-logo.svg` on light backgrounds, `madar-logo-dark.svg` on green (hero); the square book icon (`tasyir-icon*`, favicon, PWA, maskable, apple-touch) did not change. Amiri only inside the logo files. OG image 1200×630 (French tagline) = `public/brand/og-image.png`; manifest `public/manifest.webmanifest` (excluded from the proxy matcher).
 
 ## Phase 9 — done 2026-10-20 (notes kept for later phases)
 Same workflow (show every migration, wait for OK, commit + push each step, test in Chrome AR + FR). Decisions (user, 2026-10-19): **no private messaging at all** (no parent↔teacher / teacher↔admin chat; the Phase 7 "Demander un changement" idea is dropped with it). Remarks later feed report cards (Pro).

diff --git a/docs/PLAN.md b/docs/PLAN.md
@@ -1,7 +1,10 @@
-# Tasyir School — Product & Build Plan
+# Madar School — Product & Build Plan
+
+> **Product renamed to Madar School (مدار), interface only, 2026-10-25** (formerly Tasyir / تسيير). Internal names (repo, package, database objects, cron jobs, storage keys, the `@phone.tasyiir.invalid` sign-in domain, the Vercel URL) keep `tasyiir` / `tasyir`.
+> **Madar follow-ups:** demo account emails `@demo.tasyir.ma` → the new domain through the seed `--refresh` (user present), and the demo school's name "École Démo Tasyir" (seed + database); own `madarapp.ma` and set up the Vercel domain (not confirmed yet); OMPIC filing for "Madar"; Instagram profile; custom SMTP only after owning the new domain.
 
 ## 1. Vision
-A multi-tenant SaaS sold to private schools in Morocco. The **platform owner** (Tasyir) manages client schools,
+A multi-tenant SaaS sold to private schools in Morocco. The **platform owner** (Madar) manages client schools,
 plans and modules. Each **school** has a director who creates staff accounts and runs the school.
 
 ```
